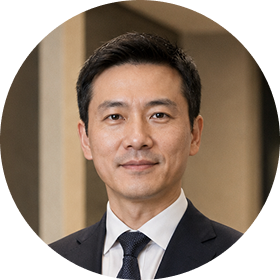
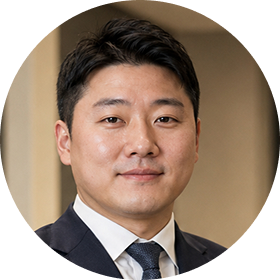
[template] guyeon-lawfirm 모바일 서브·팀 섬네일 보정

diff --git a/templates/guyeon-lawfirm/about-team.html b/templates/guyeon-lawfirm/about-team.html
@@ -160,32 +160,32 @@
         <ul class="sub-team__avatars scroll-reveal" role="tablist" aria-label="변호사 선택">
           <li>
             <button type="button" class="sub-team__avatar is-active" role="tab" id="team-tab-0" aria-selected="true" aria-controls="team-panel-0" data-team-tab="0">
-              <img src="assets/images/team_avatar_01.png" alt="김주은" width="140" height="140" decoding="async">
+              <img src="assets/images/team_avatar_05.png" alt="김주은" width="84" height="84" decoding="async">
             </button>
           </li>
           <li>
             <button type="button" class="sub-team__avatar" role="tab" id="team-tab-1" aria-selected="false" aria-controls="team-panel-1" data-team-tab="1" tabindex="-1">
-              <img src="assets/images/team_avatar_02.png" alt="박재현" width="140" height="140" decoding="async">
+              <img src="assets/images/team_avatar_02.png" alt="박재현" width="84" height="84" decoding="async">
             </button>
           </li>
           <li>
             <button type="button" class="sub-team__avatar" role="tab" id="team-tab-2" aria-selected="false" aria-controls="team-panel-2" data-team-tab="2" tabindex="-1">
-              <img src="assets/images/team_avatar_03.png" alt="이도윤" width="140" height="140" decoding="async">
+              <img src="assets/images/team_avatar_03.png" alt="이도윤" width="84" height="84" decoding="async">
             </button>
           </li>
           <li>
             <button type="button" class="sub-team__avatar" role="tab" id="team-tab-3" aria-selected="false" aria-controls="team-panel-3" data-team-tab="3" tabindex="-1">
-              <img src="assets/images/team_avatar_04.png" alt="박현우" width="140" height="140" decoding="async">
+              <img src="assets/images/team_avatar_04.png" alt="박현우" width="84" height="84" decoding="async">
             </button>
           </li>
           <li>
             <button type="button" class="sub-team__avatar" role="tab" id="team-tab-4" aria-selected="false" aria-controls="team-panel-4" data-team-tab="4" tabindex="-1">
-              <img src="assets/images/team_avatar_05.png" alt="서준혁" width="140" height="140" decoding="async">
+              <img src="assets/images/team_avatar_01.png" alt="서준혁" width="84" height="84" decoding="async">
             </button>
           </li>
           <li>
             <button type="button" class="sub-team__avatar" role="tab" id="team-tab-5" aria-selected="false" aria-controls="team-panel-5" data-team-tab="5" tabindex="-1">
-              <img src="assets/images/team_avatar_06.png" alt="한서연" width="140" height="140" decoding="async">
+              <img src="assets/images/team_avatar_06.png" alt="한서연" width="84" height="84" decoding="async">
             </button>
           </li>
         </ul>

diff --git a/templates/guyeon-lawfirm/css/style.css b/templates/guyeon-lawfirm/css/style.css
@@ -1116,13 +1116,19 @@ p.scroll-reveal {
 }
 
 .sub-intro__body {
+  display: flex;
+  flex-direction: column;
+  gap: 37.4px;
   margin: 0;
   font-size: 22px;
   font-weight: 600;
   line-height: 37.4px;
   text-align: center;
   color: var(--color-text);
-  white-space: pre-line;
+}
+
+.sub-intro__body p {
+  margin: 0;
 }
 
 .sub-team {
@@ -1174,8 +1180,8 @@ p.scroll-reveal {
 .sub-team__avatar {
   position: relative;
   flex-shrink: 0;
-  width: 140px;
-  height: 140px;
+  width: 84px;
+  height: 84px;
   padding: 0;
   border: none;
   border-radius: 50%;
@@ -1596,9 +1602,28 @@ p.scroll-reveal {
   }
 
   .sub-hero__tabs {
-    gap: 24px;
+    display: inline-flex;
+    flex-direction: row;
+    flex-wrap: nowrap;
+    align-items: center;
+    justify-content: center;
+    gap: 12px;
     margin-top: 16px;
-    padding: 20px 24px;
+    padding: 16px 22px;
+    max-width: 100%;
+    overflow-x: auto;
+    -webkit-overflow-scrolling: touch;
+    scrollbar-width: none;
+  }
+
+  .sub-hero__tabs::-webkit-scrollbar {
+    display: none;
+  }
+
+  .sub-hero__tab {
+    font-size: 14px;
+    text-align: center;
+    white-space: nowrap;
   }
 
   .sub-intro {
@@ -1607,16 +1632,23 @@ p.scroll-reveal {
 
   .sub-intro__inner {
     gap: 48px;
+    overflow-x: clip;
   }
 
   .sub-intro__title {
     font-size: 35px;
   }
 
+  .sub-intro__figure {
+    width: 130%;
+    margin-inline: -15%;
+  }
+
   .sub-intro__body {
+    gap: 24px;
     font-size: 16px;
     line-height: 1.58;
-    font-weight: 500;
+    font-weight: 600;
   }
 
   .sub-team {

diff --git a/templates/guyeon-lawfirm/about-intro.html b/templates/guyeon-lawfirm/about-intro.html
@@ -167,13 +167,11 @@
           >
         </figure>
 
-        <p class="sub-intro__body scroll-reveal">법률사무소 구연은 의뢰인의 상황을 단순히 사건으로만 보지 않습니다.
-사건이 시작된 배경, 현재의 위험, 앞으로의 가능성을 함께 검토하며 가장 현실적인 대응 방향을 제시합니다.
-
-처음 상담부터 사건 종결까지, 필요한 절차를 명확히 안내하고
-의뢰인이 불안 속에서 혼자 판단하지 않도록 함께합니다.
-
-구연은 빠른 말보다 정확한 검토를, 막연한 약속보다 책임 있는 대응을 우선합니다.</p>
+        <div class="sub-intro__body scroll-reveal">
+          <p>법률사무소 구연은 의뢰인의 상황을 단순히 사건으로만 보지 않습니다. 사건이 시작된 배경, 현재의 위험, 앞으로의 가능성을 함께 검토하며 가장 현실적인 대응 방향을 제시합니다.</p>
+          <p>처음 상담부터 사건 종결까지, 필요한 절차를 명확히 안내하고 의뢰인이 불안 속에서 혼자 판단하지 않도록 함께합니다.</p>
+          <p>구연은 빠른 말보다 정확한 검토를, 막연한 약속보다 책임 있는 대응을 우선합니다.</p>
+        </div>
       </div>
     </section>
   </main>
